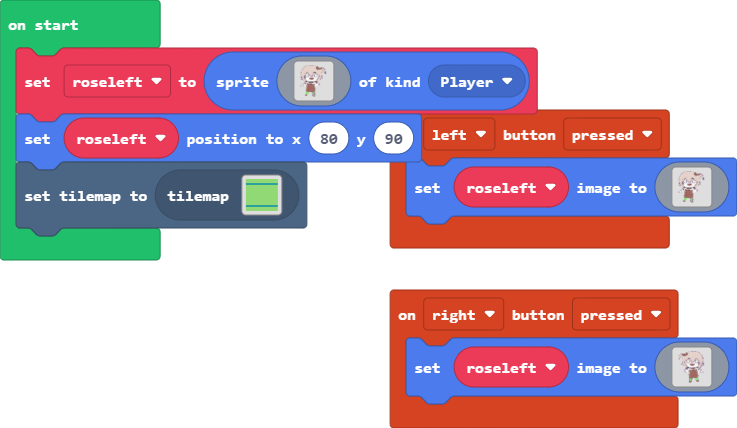
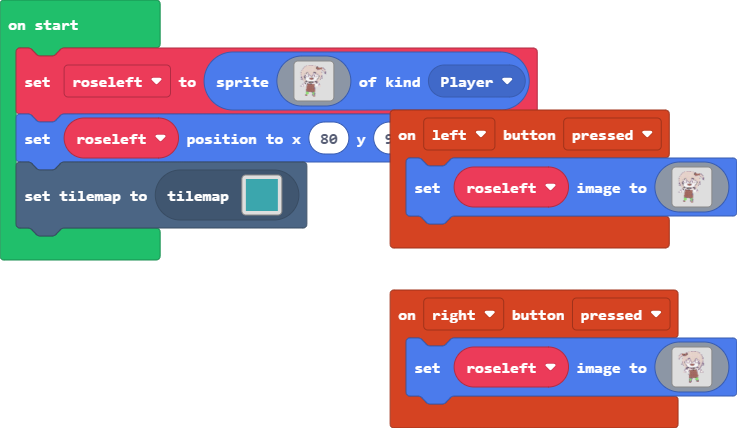
Update main.blocks, tilemap.g.jres, tilemap.g.ts

Changed region(s): [[0.5305, 0.243, 0.749, 0.3949], [0.3121, 0.3949, 0.3745, 0.5164]]

diff --git a/tilemap.g.ts b/tilemap.g.ts
@@ -6,7 +6,7 @@ namespace myTiles {
     helpers._registerFactory("tilemap", function(name: string) {
         switch(helpers.stringTrim(name)) {
             case "level1":
-            case "level1":return tiles.createTilemap(hex`1000100001010101010101010101010101010101010101010101010101010101010101010202020202020202020202020202020201010101010101010101010101010101010101010101010101010101010101010101010101010101010101010101010101010101010101010101010101010101010101010101010101010101010101010101010101010101010101010101010101010101010101010101010101010101010101010101010101010101010101010101010101010101010101010101010101010101010101010101010101010101020202020202020202020202020202020101010101010101010101010101010101010101010101010101010101010101`, img`
+            case "level1":return tiles.createTilemap(hex`1000100001010101010101010101010101010101010101010101010101010101010101010101010101010101010101010101010101010101010101010101010101010101010101010101010101010101010101010101010101010101010101010101010101010101010101010101010101010101010101010101010101010101010101010101010101010101010101010101010101010101010101010101010101010101010101010101010101010101010101010101010101010101010101010101010101010101010101010101010101010101010101010101010101010101010101010101010101010101010101010101010101010101010101010101010101010101`, img`
 . . . . . . . . . . . . . . . . 
 . . . . . . . . . . . . . . . . 
 . . . . . . . . . . . . . . . . 
@@ -23,7 +23,7 @@ namespace myTiles {
 . . . . . . . . . . . . . . . . 
 . . . . . . . . . . . . . . . . 
 . . . . . . . . . . . . . . . . 
-`, [myTiles.transparency16,sprites.castle.tileGrass2,sprites.castle.tileDarkGrass1], TileScale.Sixteen);
+`, [myTiles.transparency16,sprites.builtin.field1], TileScale.Sixteen);
         }
         return null;
     })
